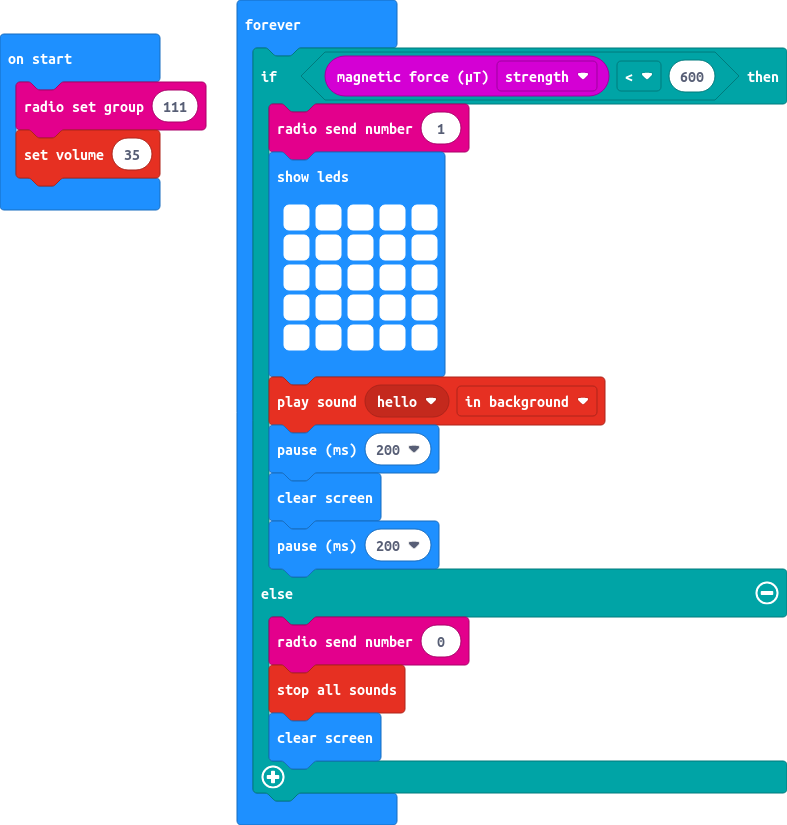
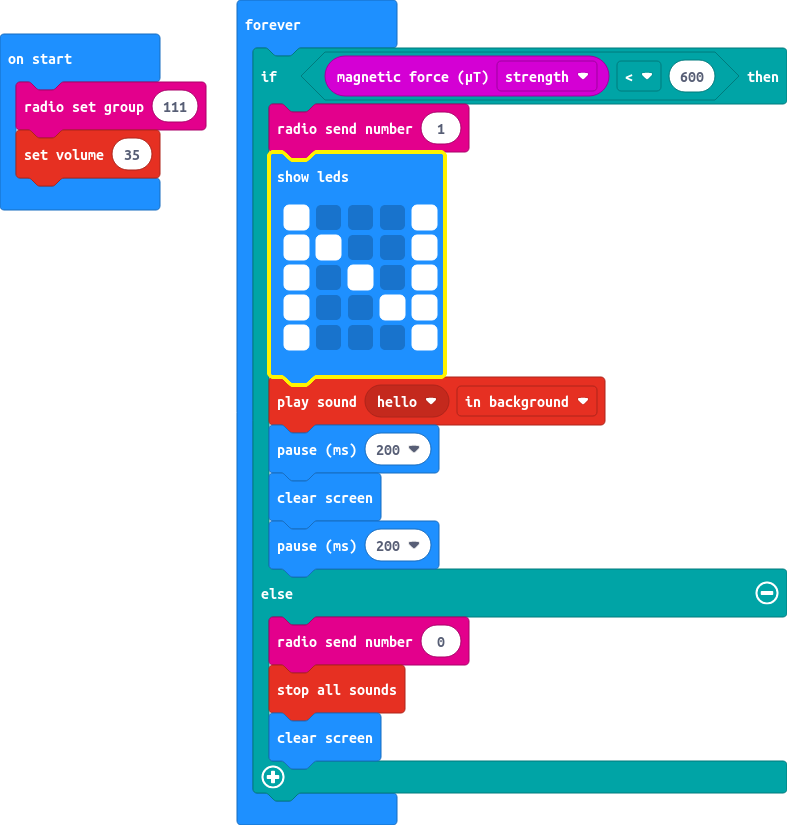
Update main.blocks, main.ts

Changed region(s): [[0.3355, 0.1818, 0.5794, 0.4848], [0.3964, 0.2424, 0.5184, 0.4242]]

diff --git a/main.ts b/main.ts
@@ -4,11 +4,11 @@ basic.forever(function () {
     if (input.magneticForce(Dimension.Strength) < 600) {
         radio.sendNumber(1)
         basic.showLeds(`
-            # # # # #
-            # # # # #
-            # # # # #
-            # # # # #
-            # # # # #
+            # . . . #
+            # # . . #
+            # . # . #
+            # . . # #
+            # . . . #
             `)
         music.playSoundEffect(music.builtinSoundEffect(soundExpression.hello), SoundExpressionPlayMode.InBackground)
         basic.pause(200)
